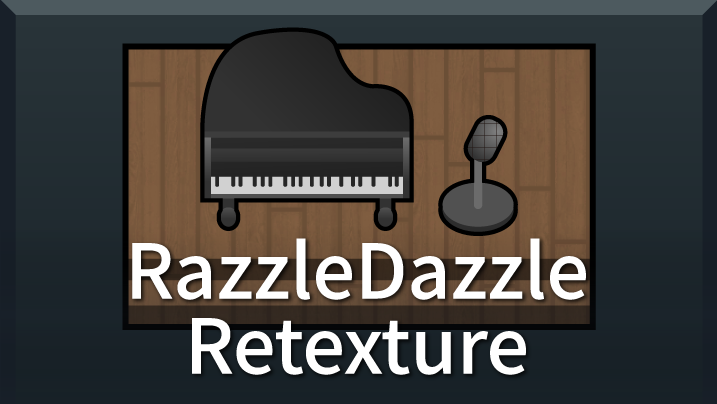
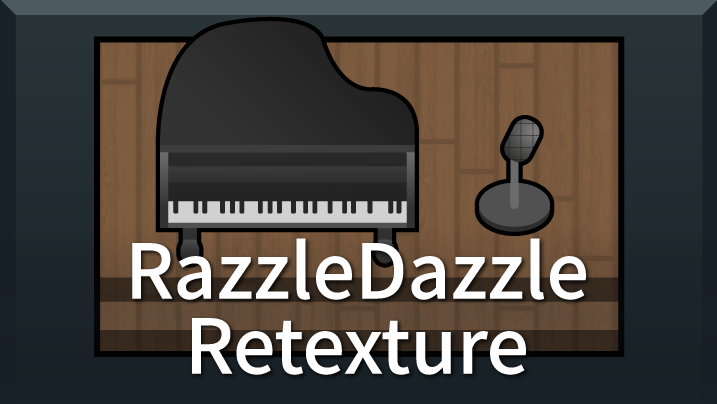
add WTH retexture

Changed region(s): [[0.1227, 0.0297, 0.8898, 0.8911]]

diff --git a/_posts/2021-09-13-WTHRetexture.md b/_posts/2021-09-13-WTHRetexture.md
@@ -1,0 +1,9 @@
+---
+title: "What the Hack?! Retexture"
+date: 2021-09-13
+category: [rimworld, mod]
+image: "/assets/images/rimworld/WTH.webp"
+---
+<img src="/assets/images/rimworld/WTH.gif" alt="What the Hack?!" width="1028" height="795" loading="lazy">
+
+[https://steamcommunity.com/sharedfiles/filedetails/?id=2600860593](https://steamcommunity.com/sharedfiles/filedetails/?id=2600860593)
